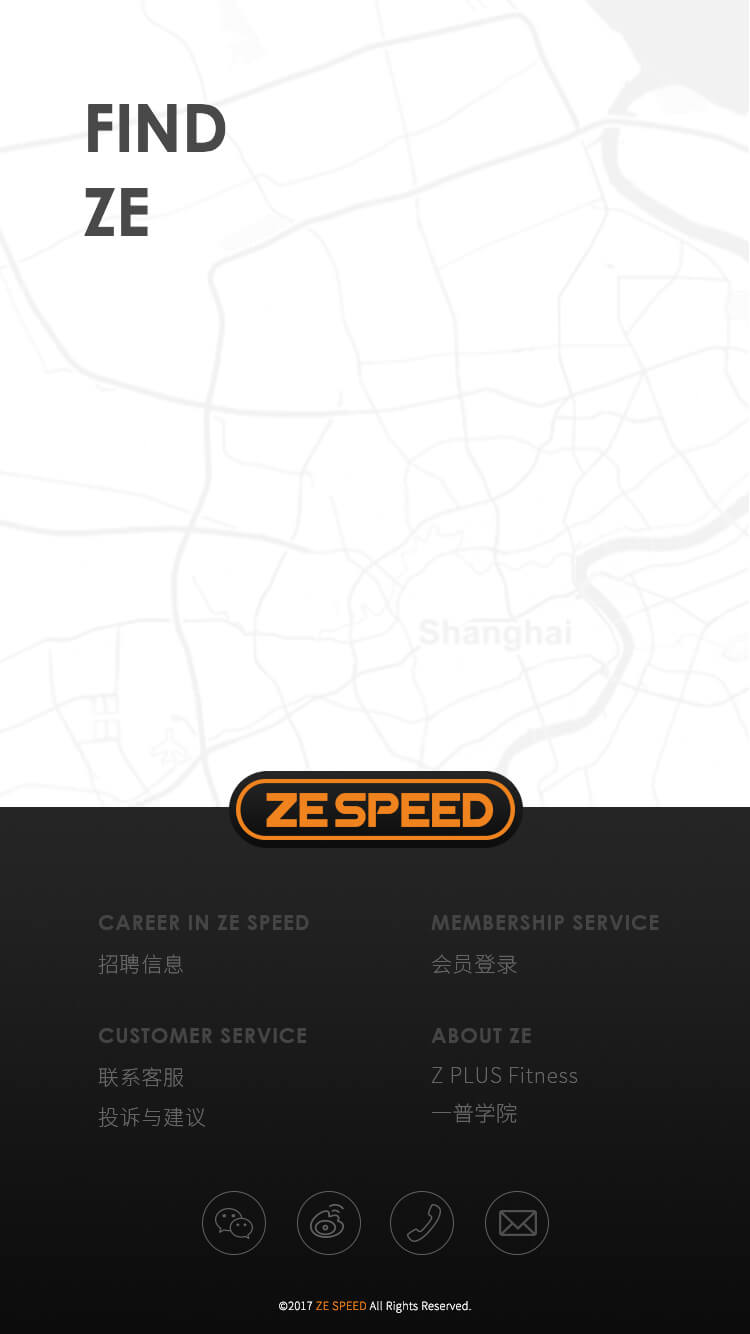
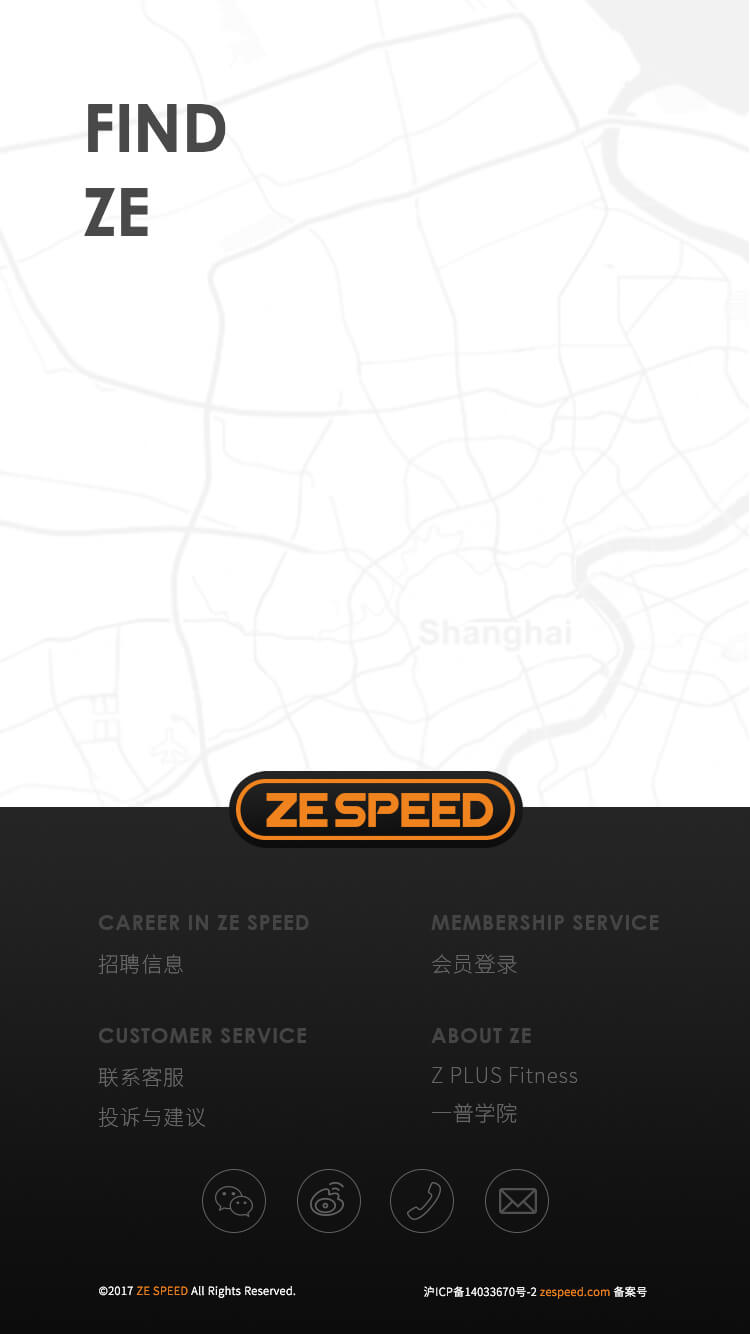
PCWeb

Changed region(s): [[0.1227, 0.8913, 0.8587, 0.9835]]

diff --git a/PCweb/20170817/H5/js/wantUI-alert.js b/PCweb/20170817/H5/js/wantUI-alert.js
@@ -1,0 +1,255 @@
+/*
+** alert UI js
+*  ver 1.0.0
+*  17.04.17
+*/
+
+(function(window,document,Math){
+
+var WantAlert = function(options){
+	this.layer = document.getElementById("wantUI-alert-box");
+	this.ele = document.getElementById('wantUI-alert-dialog-box');
+	this.beforeIE7 = document.querySelector ? false : true;
+	this.init();
+};
+
+WantAlert.prototype = {
+
+	init : function(){
+		this.title = document.getElementById("wantUI-alert-title").innerHTML;
+		this.msg = document.getElementById("wantUI-alert-msg").innerHTML;
+		this.btn = document.getElementById("wantUI-alert-btn").innerHTML;
+		this.callback = function(){};
+		this.__getHeight();
+		this.__setMiddle();
+	},
+
+	//显示提示框
+	showAlert : function(){
+		if( this.display != "none" )
+		return false;
+
+		this.__setInnerStyle(this.layer,{
+			display:"block"
+		});
+		this.display = "block";
+
+		this.__initEvent();
+	},
+
+	//隐藏提示框
+	hideAlert : function(){
+		if( this.display == "none" )
+		return false;
+
+		this.__setInnerStyle(this.layer,{
+			display:"none"
+		});
+		this.display = "none";
+
+	},
+
+	//设置参数
+	setValues : function(options){
+		options = options || {};
+
+		/********提示框标题*********/
+
+		//是否显示标题
+		this.showTitle = options.showTitle === false ? 
+						false : 
+						(options.showTitle || (this.showTitle === false ? false : true) );
+						
+		this.title = options.title || this.title || "提示信息";
+
+		/********提示框标题*********/
+
+		this.msg = options.msg || this.msg || "您触发了一个提示";
+
+		/********提示框按钮*********/
+
+		this.btn = options.btn || this.btn || "我知道了";
+		//按钮点击后的回调函数
+		this.callback = options.callback || this.callback || function(){};
+
+		/********系统选项*********/
+
+		//(允许)禁止滑动
+		this.scrollable = options.scrollable === false ? false : (options.scrollable || this.scrollable);
+	
+		//更新dom
+		this.__initDom();
+	},
+
+	//单独设置参数
+	setValue : function(key,val){
+		if(!key) return false;
+		var tempObj = {};
+		tempObj[key] = val;
+		this.setValues(tempObj);
+	},
+
+	//系统设定点击回调事件
+	custom : function(){
+		this.hideAlert();
+	},
+
+	//系统初始化事件
+	__initEvent : function(){
+		if( this.hasBind )
+		return false;
+
+		this.__forbidden();
+		this.__bindEvent();
+
+		this.hasBind = true;
+	},
+
+	//系统初始化dom
+	__initDom : function(){
+		var title = document.getElementById("wantUI-alert-title"),
+			msg = document.getElementById("wantUI-alert-msg"),
+			btn = document.getElementById("wantUI-alert-btn");
+
+		if(!this.showTitle){
+			this.__setInnerStyle(title,{
+				display:"none"
+			});
+		} else {
+			this.__setInnerStyle(title,{
+				display:"block"
+			});
+		}
+
+		title.innerHTML = this.title;
+		msg.innerHTML = this.msg;
+		btn.innerHTML = this.btn;
+	},
+
+	//preventDefault
+	__preventDefault : function(e){
+		return e.preventDefault ? e.preventDefault() : e.returnValue = false;
+	},
+
+	//stopPropagation
+	__stopBubble : function(e){
+		return e.stopPropagation ? e.stopPropagation() : e.cancelBubble = true;
+	},
+
+	//系统设定禁止某些的操作
+	__forbidden : function(){
+		var _self = this;
+
+		if(this.scrollable)
+		return false;
+
+		_self.layer.onmousewheel = function(e){
+			e = e || event;
+			_self.__preventDefault(e);
+			_self.__stopBubble(e);
+		};
+
+		_self.layer.ontouchmove = function(e){
+			e = e || event;
+			_self.__preventDefault(e);
+			_self.__stopBubble(e);
+		};
+	},
+
+	//绑定点击事件
+	__bindEvent : function(){	
+		var _self = this,
+			bt = document.getElementById("wantUI-alert-btn");
+
+		bt.onclick = function(e){
+			_self.custom();
+			_self.callback.call(_self,e);
+		};
+
+	},
+
+	//使提示框垂直居中
+	__setMiddle : function(){
+		var windowHeight = window.innerHeight || document.documentElement.clientHeight,
+			dist = windowHeight - this.height;
+
+		this.__setInnerStyle(this.ele, {
+			"marginTop": dist / 2 + "px"
+		});
+	},
+
+	//获取提示框高度
+	__getHeight : function(){
+		var ele = this.ele,
+			layer = this.layer,
+			style = layer.currentStyle || window.getComputedStyle(layer,"null"),
+			display = style.display;
+
+		this.display = display;
+
+		if(display != "none"){
+			this.height = ele.clientHeight;
+			return false;
+		}
+
+		this.__setInnerStyle(layer,{
+			visibility: "hidden",
+			display: "block",
+			position: "absolute"
+		});
+		this.height = ele.clientHeight;
+		this.__delInnerStyle(layer,["visibility","display","position"]);
+	},
+
+	//方法函数，添加内联style
+	__setInnerStyle : function(ele,opts){
+		if(this.beforeIE7){
+			this.__setInnerStyle = function(ele,opts){
+				for( var key in opts ){
+					ele.style[key] = opts[key];
+				}
+			}
+		} else {
+			this.__setInnerStyle = function(ele,opts){
+				var temp = "",
+					reg = /([A-Z]+)/g;
+				for( var key in opts ){
+					var kVal = opts[key];
+					key = key.replace(reg,function(val){
+						return "-" + val.toLowerCase();
+					});
+					var tpl = key + ":" + kVal + ";";
+					temp += tpl;
+				}
+				ele.style.cssText = temp;
+			};
+		}
+		this.__setInnerStyle(ele,opts);
+	},
+
+	//方法函数, 删除内联style
+	__delInnerStyle : function(ele,opts){
+		if(this.beforeIE7){
+			this.__delInnerStyle = function(ele){
+				for( var key, i = 0; key = opts[i++]; ){
+					ele.style[key] = "";
+				}
+			}
+		} else {
+			this.__delInnerStyle = function(ele){
+				ele.style.cssText = "";
+			}
+		}
+		this.__delInnerStyle(ele);
+	}
+};
+
+if( typeof module != 'undefined' && module.exports ){
+	module.exports = new WantAlert();
+} else if( typeof define == "function" && define.amd ){
+	define(function(){ return new WantAlert();});
+} else {
+	window.wantAlert = new WantAlert();
+}
+
+})(window,document,Math,undefined);

diff --git a/PCweb/20170817/H5/css/wantUI-alert.css b/PCweb/20170817/H5/css/wantUI-alert.css
@@ -1,0 +1,99 @@
+/*
+** 手动合并css可以直接将下面的注释内部的代码复制过去即可
+*/
+
+.wantUI-alert-baseFontColor{
+	color: #fff;
+}
+
+.wantUI-alert-commonFontColor{
+	color: #00A698;
+}
+
+.wantUI-alert-baseBgColor{
+	background-color: #fff;
+}
+
+.wantUI-alert-commonBgColor{
+	background-color: #00A698;
+}
+
+#wantUI-alert-box{
+	position: fixed;
+	left: 0px;
+	right: 0px;
+	top: 0px;
+	bottom: 0px;
+	font-size: 12px;
+	display: none;
+	z-index: 1000;
+}
+
+.wantUI-alert-bglayer{
+	position: absolute;
+	left: 0px;
+	top: 0px;
+	width: 100%;
+	height: 100%;
+	z-index: 1;
+	background: #000;
+	filter:alpha(opacity=30);
+	+zoom : 1;
+}
+
+#wantUI-alert-dialog-box{
+	position: relative;
+	max-width: 300px;
+	width: 80%;
+	height: auto;
+	margin: 0 auto;
+	z-index: 2;
+}
+
+#wantUI-alert-title{
+	position: relative;
+	height: auto;
+	padding: 0.6em 0em;
+	text-align: center;
+	font-size: 1.2em;
+	font-weight: 800;
+}
+
+#wantUI-alert-msg{
+	position: relative;
+	min-height: 5em;
+	height: auto;
+	padding: 0.8725em 1em;
+	font-size: 1.4em;
+	color: #222;
+}
+
+#wantUI-alert-btn{
+	position: relative;
+	height: auto;
+	padding: 0.6em 0em;
+	font-size: 1.2em;
+	text-align: center;
+	font-weight: 800;
+	-webkit-tap-highlight-color : none;
+}
+
+#wantUI-alert-btn:hover{
+	cursor: pointer;
+	opacity: 0.8;
+}
+
+#wantUI-alert-btn:before{
+	position: relative;
+	content: "√";
+	display: none;
+}
+
+@media screen and (min-width: 0px){
+	.wantUI-alert-bglayer{
+		background: rgba(0,0,0,0.3);
+		filter:alpha(opacity=100);
+	}
+}
+
+/*alert UI Css End*/

diff --git a/PCweb/20170817/index.html b/PCweb/20170817/index.html
@@ -563,6 +563,7 @@ if(!cv.getContext){
 	</div>
 	<div class="cpr">
 		©2017 <a href="index.html" target="_blank">ZE SPEED</a> All Rights Reserved.
+		沪ICP备14033670号-2 <a href="index.html">zespeed.com</a> 备案号
 	</div>
 </div>
 
